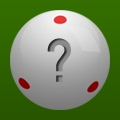
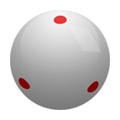
- Removed fixed header (bug) - New "no user" picture

diff --git a/pages/player/player_list.html b/pages/player/player_list.html
@@ -5,7 +5,7 @@
 <body>
 
 <div data-role="page" id="pagePlayersList">
-    <div data-role="header" data-position="fixed" id="playerListHead">
+    <div data-role="header" id="playerListHead">
         <a href="../../index.html" data-icon="arrow-l">Back</a>
         <h1>Player Profiles</h1>
         <a href="#" id="pagePlayersListNewPlayerLink" data-icon="plus" class="ui-btn-right">New</a>
